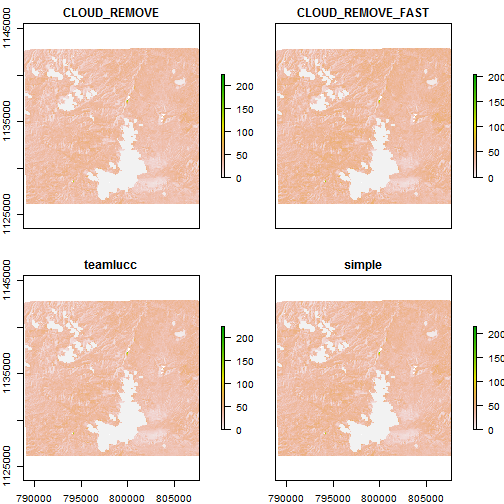
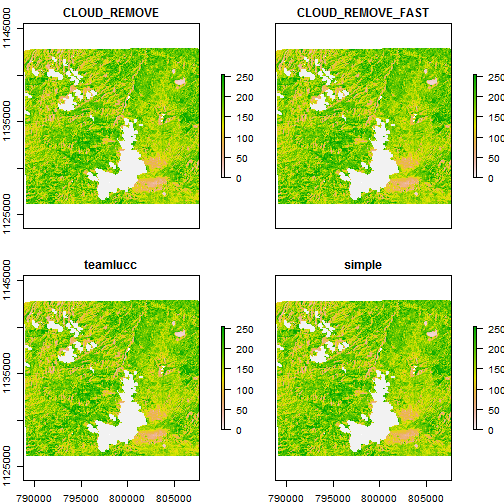
Improve comparison image.

diff --git a/_posts/2014-04-16-cloud-removal-with-teamlucc.md b/_posts/2014-04-16-cloud-removal-with-teamlucc.md
@@ -492,7 +492,7 @@ Sys.time() - start_time
 
 
 {% highlight text %}
-## Time difference of 47.31073 secs
+## Time difference of 55.48255 secs
 {% endhighlight %}
 
 Use `plotRGB` to check the output:
@@ -536,7 +536,7 @@ Sys.time() - start_time
 
 
 {% highlight text %}
-## Time difference of 7.101377 mins
+## Time difference of 3.320532 mins
 {% endhighlight %}
 
 View the results with `plotRGB`:
@@ -571,7 +571,7 @@ Sys.time() - start_time
 
 
 {% highlight text %}
-## Time difference of 1.046105 secs
+## Time difference of 0.6300631 secs
 {% endhighlight %}
 
 View the results with `plotRGB`:
@@ -591,9 +591,10 @@ first band of all four images, then plot:
 
 {% highlight r %}
 filled_comp <- stack(filled_cr[[1]], filled_crf[[1]], filled_tl[[1]], 
-                    filled_simple[[1]])
+                     filled_simple[[1]])
 names(filled_comp) <- c('CLOUD_REMOVE', 'CLOUD_REMOVE_FAST', 'teamlucc', 
                        'simple')
+filled_comp <- linear_stretch(filled_comp, pct=2, max_val=255)
 plot(filled_comp)
 {% endhighlight %}
 
